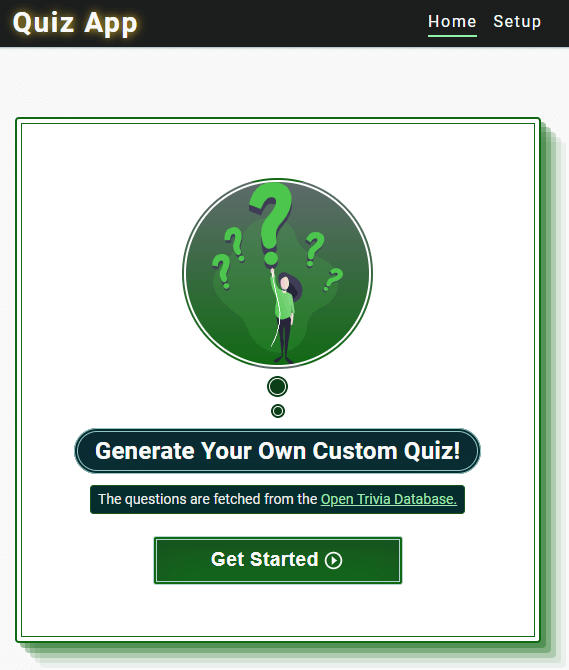
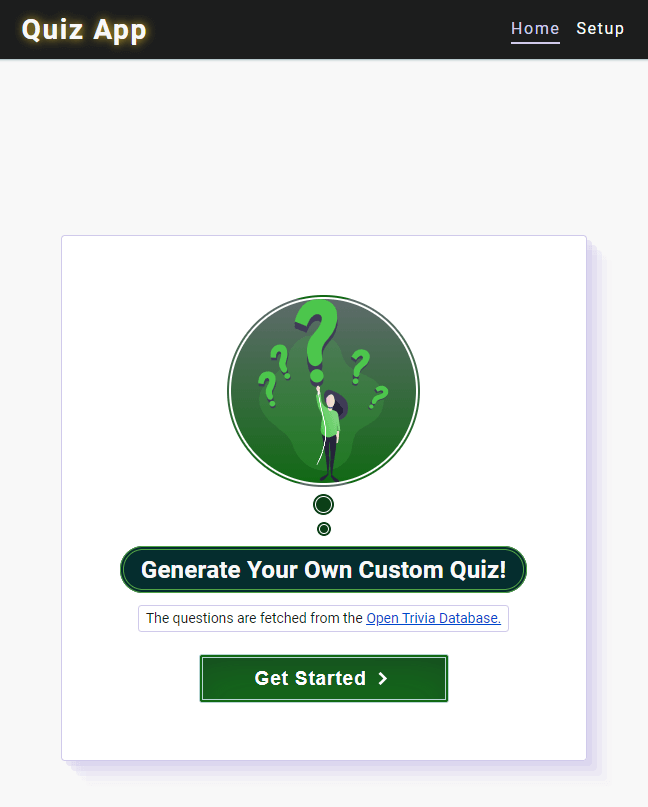
style(card+images): change techlist color, padding + new quiz image

diff --git a/src/styles/_layout.scss b/src/styles/_layout.scss
@@ -36,7 +36,7 @@
       font-size: 1.3rem;
       color: b.$text-white;
       background-color: b.$bg-main;
-      padding: 0.3em;
+      padding: 0.3em 0.28em;
       border-radius: 0.25em;
       box-shadow: white 0px 0px 5px 2px;
 
@@ -48,7 +48,7 @@
     .website-heading {
       font: {
         family: 'Rock Salt', cursive;
-        size: 1.7rem;
+        size: 1.65rem;
         weight: 900;
       }
       color: b.$text-white;
@@ -70,16 +70,17 @@
 
       .portfolio {
         font: {
-          family: b.$font-family-main;
+          // family: b.$font-family-main;
           family: 'Codystar';
           weight: bold;
-          size: 1rem;
+          size: 0.94rem;
         }
+        letter-spacing: 0.02em;
         text-shadow: none;
         margin-left: 0.4em;
 
         @include b.mediaQuery(b.$mobile) {
-          font-size: 0.925rem;
+          font-size: 0.88rem;
           margin-left: 0.44em;
         }
       }
@@ -297,7 +298,7 @@
     @extend %content-maxWidth;
     text-align: center;
     font-size: 1.6rem;
-    background: rgb(255, 255, 255);
+    background: #ffffff;
     margin: 0.2em auto;
     padding: 0.5em 0.8em;
     position: relative;

diff --git a/src/styles/_components.scss b/src/styles/_components.scss
@@ -357,6 +357,7 @@
     width: 100%;
     font-size: 0.934rem;
     margin: 0.5em 0 0.15em;
+    margin: 0.65em 0 0.3em;
     padding: 0.52em 0.8em;
     border-radius: 0.25em;
     background: transparent;
@@ -373,7 +374,7 @@
     &:hover {
       // background: #173c5c;
       // color: b.$text-white;
-      background: #eef5fb;
+      // background: #eef5fb;
       background: #ebf5fd;
       border-color: #0f3868;
     }
@@ -399,14 +400,14 @@
       margin: 0.4em 0 0.2em;
 
       > li {
+        font-size: 0.936rem;
         padding: 0.32em 0.9em;
         // background: #1b7195;
         // background: rgb(0, 36, 51);
         background: rgb(9, 38, 51);
-        // background: rgb(4, 9, 38);
-        // background: rgb(18, 20, 32);
         // color: rgb(245, 245, 245);
-        color: rgb(244, 244, 244);
+        color: rgb(246, 246, 246);
+        // color: rgb(250, 250, 250);
         // color: b.$text-white;
         border-radius: 0.2em;
         border-radius: 1.2em;

diff --git a/index.html b/index.html
@@ -429,7 +429,7 @@
             >
               <img
                 class="project-image"
-                src="/src/assets/quizApp.png"
+                src="/src/assets/quiz1000.PNG"
                 alt="Landing page of the deployed Quiz App project. User can create a custom quiz and then play it."
                 title="Screencapture of the Quiz App project landing page"
             /></a>
@@ -744,7 +744,7 @@
             </h4>
             <div class="accordion-item-body" aria-expanded="false">
               <p class="accordion-item-body-content">
-                I have signed up for different newsletters (e.g. Codeacademy,
+                I have signed up for different newsletters (e.g. Codecademy,
                 FreeCodeCamp) which cover a wide array of compelling subjects,
                 and keep me updated. I also search for articles, videos, and
                 interactive coding lessons on specific topics that come up while
